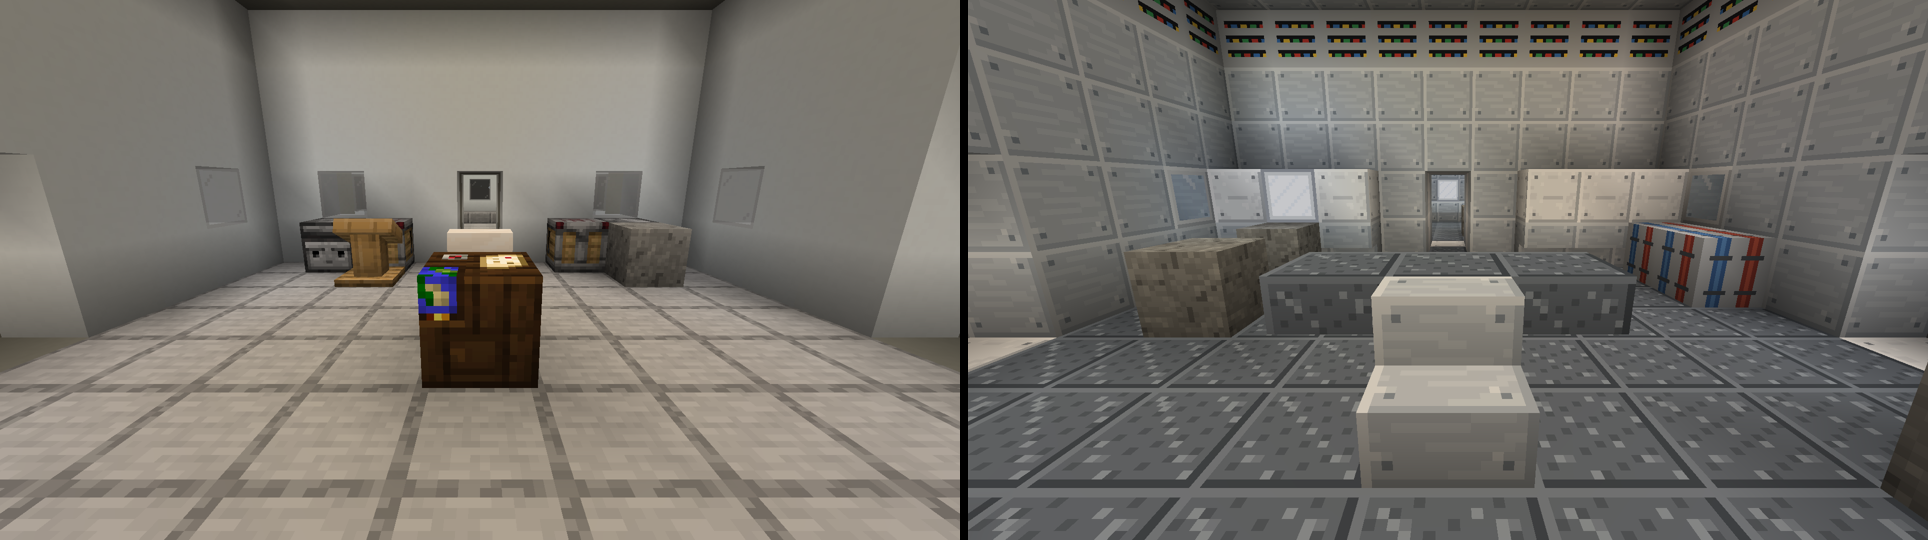
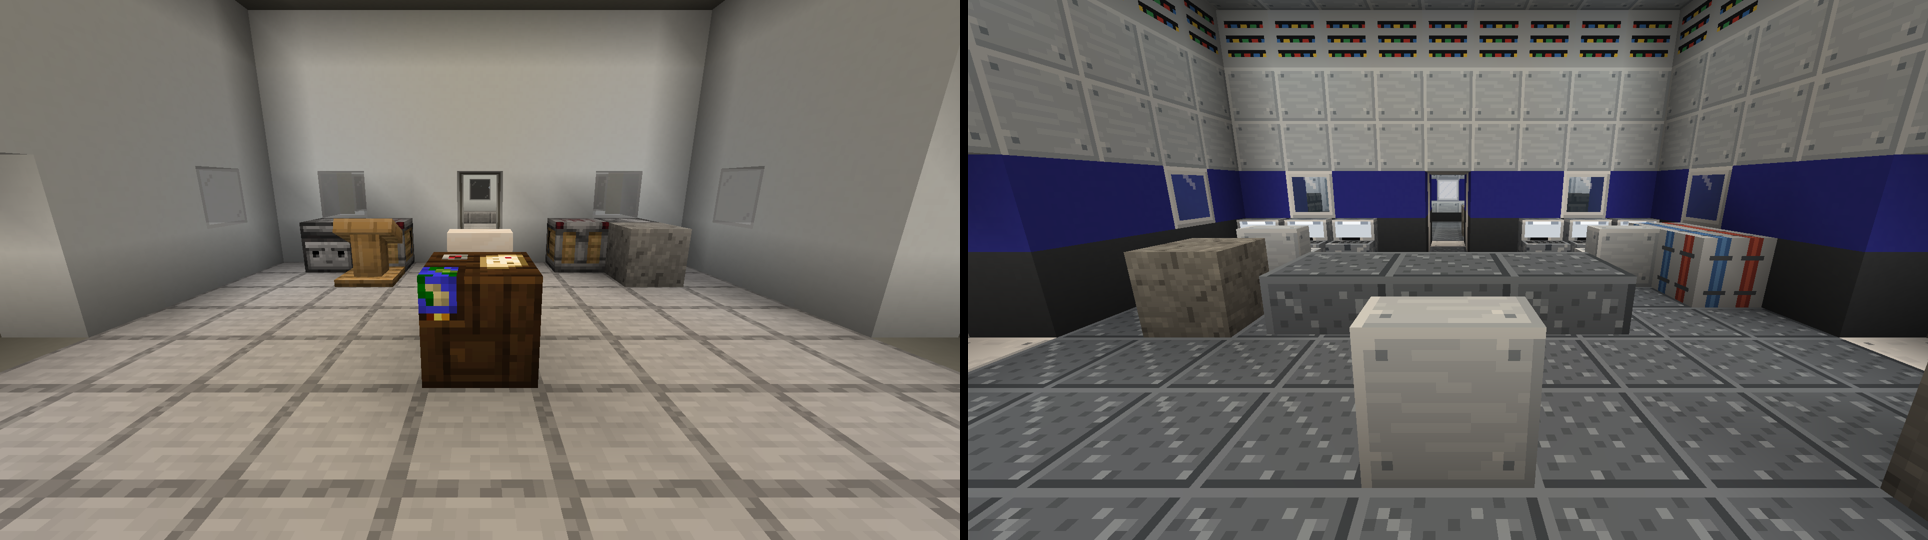
Outpost: control desks, wall livery and more ceiling lights
New decorative Control Desk block (switch panel and screen, craftable, EN/TR).
The hub consoles are control desks with seats. Module walls get dark skirting,
a blue band at window height and the cable tray on top; ceiling light panels
every three blocks.

Changed region(s): [[0.4979, 0.237, 1.0, 0.6222], [0.6846, 0.5037, 0.8091, 0.7704]]

diff --git a/src/main/java/com/pizzaparker07/spacebreaker/content/moon/dungeon/OutpostPiece.java b/src/main/java/com/pizzaparker07/spacebreaker/content/moon/dungeon/OutpostPiece.java
@@ -194,6 +194,8 @@ public class OutpostPiece extends StructurePiece {
         BlockState floor = s(BaseBlocks.TITANIUM_DECK.base().get());
         BlockState glass = s(RocketryModule.STATION_WINDOW.get());
         BlockState tray = s(BaseBlocks.CABLE_DUCT.get());
+        BlockState skirting = s(Blocks.GRAY_CONCRETE);
+        BlockState stripe = s(Blocks.BLUE_CONCRETE);
         for (int x = x0; x <= x1; x++) {
             for (int z = z0; z <= z1; z++) {
                 boolean ex = x == x0 || x == x1;
@@ -205,7 +207,8 @@ public class OutpostPiece extends StructurePiece {
                         st = frame;
                     } else if (ex || ez) {
                         boolean window = y == F + 2 && ((ex ? z : x) % 3 == 0);
-                        st = window ? glass : y == F + h - 1 ? tray : wall;
+                        // dark skirting at the floor, a blue band at waist height with the windows in it, the cable tray on top
+                        st = window ? glass : y == F + 1 ? skirting : y == F + 2 ? stripe : y == F + h - 1 ? tray : wall;
                     } else {
                         st = s(Blocks.AIR);
                     }
@@ -218,10 +221,13 @@ public class OutpostPiece extends StructurePiece {
                 }
             }
         }
-        // a light panel set into the middle of the ceiling
-        int cx = (x0 + x1) / 2;
-        int cz = (z0 + z1) / 2;
-        placeBlock(level, s(BaseBlocks.LED_PANEL.get()), cx, F + h, cz, box);
+        // light panels set into the ceiling every three blocks, and one in the middle
+        for (int x = x0 + 2; x < x1; x += 3) {
+            for (int z = z0 + 2; z < z1; z += 3) {
+                placeBlock(level, s(BaseBlocks.LED_PANEL.get()), x, F + h, z, box);
+            }
+        }
+        placeBlock(level, s(BaseBlocks.LED_PANEL.get()), (x0 + x1) / 2, F + h, (z0 + z1) / 2, box);
     }
 
     /** A pressurised tunnel along z between two module walls (exclusive), one block wide inside. */
@@ -274,20 +280,22 @@ public class OutpostPiece extends StructurePiece {
     }
 
     private void furnishHub(WorldGenLevel level, BoundingBox box, RandomSource r) {
-        // survey consoles along the north wall: sloped desks, dead screens above, one still lit
+        // survey consoles along the north wall: control desks facing into the room, a seat at two of them
         for (int x = 11; x <= 19; x++) {
             if (x < 14 || x > 16) {
-                placeBlock(level, BaseBlocks.ALUMINUM_PANEL.stairs().get().defaultBlockState().setValue(StairBlock.FACING, Direction.NORTH)
-                        .setValue(StairBlock.HALF, net.minecraft.world.level.block.state.properties.Half.TOP), x, F + 1, 11, box);
-                placeBlock(level, x == 12 ? s(BaseBlocks.LED_PANEL.get()) : s(RocketryModule.STATION_HULL.get()), x, F + 2, 11, box);
+                placeBlock(level, MoonModule.CONTROL_DESK.get().defaultBlockState()
+                        .setValue(net.minecraft.world.level.block.HorizontalDirectionalBlock.FACING, Direction.SOUTH), x, F + 1, 11, box);
             }
+        }
+        for (int x : new int[]{12, 18}) {
+            placeBlock(level, BaseBlocks.ALUMINUM_PANEL.stairs().get().defaultBlockState().setValue(StairBlock.FACING, Direction.SOUTH), x, F + 1, 12, box);
         }
         // the map table in the middle, a seat at it
         for (int x = 14; x <= 16; x++) {
             placeBlock(level, BaseBlocks.TITANIUM_DECK.slab().get().defaultBlockState().setValue(net.minecraft.world.level.block.SlabBlock.TYPE,
                     net.minecraft.world.level.block.state.properties.SlabType.TOP), x, F + 1, 15, box);
         }
-        placeBlock(level, BaseBlocks.ALUMINUM_PANEL.stairs().get().defaultBlockState().setValue(StairBlock.FACING, Direction.NORTH), 15, F + 1, 16, box);
+        placeBlock(level, BaseBlocks.ALUMINUM_PANEL.stairs().get().defaultBlockState().setValue(StairBlock.FACING, Direction.SOUTH), 15, F + 1, 16, box);
         // the power and water lines come in along the floor
         for (int z = 12; z <= 19; z++) {
             if (z >= 14 && z <= 16) {

diff --git a/src/main/java/com/pizzaparker07/spacebreaker/content/moon/MoonModule.java b/src/main/java/com/pizzaparker07/spacebreaker/content/moon/MoonModule.java
@@ -96,6 +96,10 @@ public final class MoonModule implements SbModule {
     public static final DeferredBlock<Block> GLIMMER_LAMP = block("glimmer_lamp", BlockBehaviour.Properties.of().mapColor(MapColor.COLOR_CYAN)
             .instrument(NoteBlockInstrument.HAT).strength(0.6F).sound(SoundType.GLASS).lightLevel(st -> 14));
 
+    /** A work desk with a switch panel and a screen: base decoration, fitted in the survey outposts. */
+    public static final DeferredBlock<ControlDeskBlock> CONTROL_DESK = block("control_desk", ControlDeskBlock::new, BlockBehaviour.Properties.of()
+            .mapColor(MapColor.METAL).strength(2.0F, 6.0F).sound(SoundType.METAL).requiresCorrectToolForDrops().noOcclusion());
+
     // block items (kept as fields for other modules and tests)
     public static final DeferredItem<BlockItem> LUNAR_REGOLITH_ITEM = item(LUNAR_REGOLITH);
     public static final DeferredItem<BlockItem> MARE_BASALT_ITEM = item(MARE_BASALT);
@@ -179,6 +183,7 @@ public final class MoonModule implements SbModule {
         order.add(ILMENITE_ORE);
         order.add(KREEP_ORE);
         order.add(GLIMMER_LAMP);
+        order.add(CONTROL_DESK);
         for (DeferredBlock<? extends Block> b : order) {
             DeferredItem<BlockItem> existing = switch (b.getId().getPath()) {
                 case "lunar_regolith" -> LUNAR_REGOLITH_ITEM;
@@ -274,6 +279,7 @@ public final class MoonModule implements SbModule {
         lang.add("tooltip.spacebreaker.ice_core_sample", "Ancient cold-trap ice in layers: water and frozen volatiles",
                 "Katman katman kadim soğuk tuzak buzu: su ve donmuş uçucular");
         lang.block(GLIMMER_LAMP, "Glimmer Lamp", "Parıltı Lambası");
+        lang.block(CONTROL_DESK, "Control Desk", "Kontrol Masası");
         lang.add("biome.spacebreaker.moon_highlands", "Lunar Highlands", "Ay Yaylaları");
         lang.add("biome.spacebreaker.moon_mare", "Lunar Mare", "Ay Denizi (Mare)");
         lang.add("biome.spacebreaker.moon_crater", "Great Crater", "Büyük Krater");
@@ -312,6 +318,7 @@ public final class MoonModule implements SbModule {
         loot.self(SINTERED_REGOLITH.get());
         loot.self(METEORIC_IRON.get());
         loot.self(GLIMMER_LAMP.get());
+        loot.self(CONTROL_DESK.get());
         for (StoneFamily f : families()) {
             loot.self(f.base().get());
             loot.self(f.stairs().get());
@@ -327,7 +334,7 @@ public final class MoonModule implements SbModule {
     @Override
     public void addTags(SbTags tags) {
         List<Block> pick = new ArrayList<>(List.of(MARE_BASALT.get(), IMPACT_BRECCIA.get(), SINTERED_REGOLITH.get(),
-                METEORIC_IRON.get(), ILMENITE_ORE.get(), KREEP_ORE.get(), LUNAR_ICE.get(), GLIMMER_LAMP.get()));
+                METEORIC_IRON.get(), ILMENITE_ORE.get(), KREEP_ORE.get(), LUNAR_ICE.get(), GLIMMER_LAMP.get(), CONTROL_DESK.get()));
         for (StoneFamily f : families()) {
             f.all().forEach(b -> pick.add(b.get()));
             tags.block(BlockTags.STAIRS, f.stairs().get());

diff --git a/src/main/java/com/pizzaparker07/spacebreaker/content/moon/ControlDeskBlock.java b/src/main/java/com/pizzaparker07/spacebreaker/content/moon/ControlDeskBlock.java
@@ -1,0 +1,67 @@
+package com.pizzaparker07.spacebreaker.content.moon;
+
+import com.mojang.serialization.MapCodec;
+import net.minecraft.core.BlockPos;
+import net.minecraft.core.Direction;
+import net.minecraft.world.item.context.BlockPlaceContext;
+import net.minecraft.world.level.BlockGetter;
+import net.minecraft.world.level.block.Block;
+import net.minecraft.world.level.block.HorizontalDirectionalBlock;
+import net.minecraft.world.level.block.state.BlockState;
+import net.minecraft.world.level.block.state.StateDefinition;
+import net.minecraft.world.phys.shapes.CollisionContext;
+import net.minecraft.world.phys.shapes.Shapes;
+import net.minecraft.world.phys.shapes.VoxelShape;
+
+import java.util.EnumMap;
+import java.util.Map;
+
+/**
+ * A control desk: a work surface with a switch panel in front and a screen standing at the back. Decoration for bases
+ * (the survey outposts are fitted with them); it does nothing by itself. Faces the person sitting at it.
+ */
+public class ControlDeskBlock extends HorizontalDirectionalBlock {
+    public static final MapCodec<ControlDeskBlock> CODEC = simpleCodec(ControlDeskBlock::new);
+    private static final Map<Direction, VoxelShape> SHAPES = new EnumMap<>(Direction.class);
+
+    static {
+        // modelled facing north: desk 1..15 x 0..9, screen housing along the back (south) half up to the top
+        for (Direction d : Direction.Plane.HORIZONTAL) {
+            SHAPES.put(d, Shapes.or(box(d, 1, 0, 1, 15, 9, 15), box(d, 1, 9, 9, 15, 16, 15)));
+        }
+    }
+
+    private static VoxelShape box(Direction d, double x0, double y0, double z0, double x1, double y1, double z1) {
+        return switch (d) {
+            case SOUTH -> Block.box(16 - x1, y0, 16 - z1, 16 - x0, y1, 16 - z0);
+            case EAST -> Block.box(16 - z1, y0, x0, 16 - z0, y1, x1);
+            case WEST -> Block.box(z0, y0, 16 - x1, z1, y1, 16 - x0);
+            default -> Block.box(x0, y0, z0, x1, y1, z1);
+        };
+    }
+
+    public ControlDeskBlock(Properties properties) {
+        super(properties);
+        registerDefaultState(stateDefinition.any().setValue(FACING, Direction.NORTH));
+    }
+
+    @Override
+    protected MapCodec<? extends HorizontalDirectionalBlock> codec() {
+        return CODEC;
+    }
+
+    @Override
+    protected void createBlockStateDefinition(StateDefinition.Builder<Block, BlockState> builder) {
+        builder.add(FACING);
+    }
+
+    @Override
+    public BlockState getStateForPlacement(BlockPlaceContext context) {
+        return defaultBlockState().setValue(FACING, context.getHorizontalDirection().getOpposite());
+    }
+
+    @Override
+    protected VoxelShape getShape(BlockState state, BlockGetter level, BlockPos pos, CollisionContext context) {
+        return SHAPES.get(state.getValue(FACING));
+    }
+}

diff --git a/src/main/java/com/pizzaparker07/spacebreaker/content/moon/MoonData.java b/src/main/java/com/pizzaparker07/spacebreaker/content/moon/MoonData.java
@@ -327,6 +327,11 @@ public final class MoonData {
                     .define('S', MoonModule.GLIMMER_SHELL.get()).define('G', Items.GLASS).define('B', MoonModule.SINTERED_REGOLITH.get())
                     .pattern(" S ").pattern("SGS").pattern(" B ")
                     .unlockedBy(getHasName(MoonModule.GLIMMER_SHELL.get()), has(MoonModule.GLIMMER_SHELL.get())).save(out);
+            // control desk: a glass screen over a redstone switch panel on an iron desk
+            net.minecraft.data.recipes.ShapedRecipeBuilder.shaped(RecipeCategory.DECORATIONS, MoonModule.CONTROL_DESK.get())
+                    .define('G', Items.GLASS_PANE).define('R', Items.REDSTONE).define('I', Items.IRON_INGOT)
+                    .pattern(" G ").pattern("IRI").pattern("III")
+                    .unlockedBy(getHasName(Items.REDSTONE), has(Items.REDSTONE)).save(out);
             // an ice core sample melts down into plenty of clean lunar ice
             ShapelessRecipeBuilder.shapeless(RecipeCategory.MISC, MoonModule.LUNAR_ICE.get(), 4).requires(MoonModule.ICE_CORE_SAMPLE.get())
                     .unlockedBy(getHasName(MoonModule.ICE_CORE_SAMPLE.get()), has(MoonModule.ICE_CORE_SAMPLE.get()))
